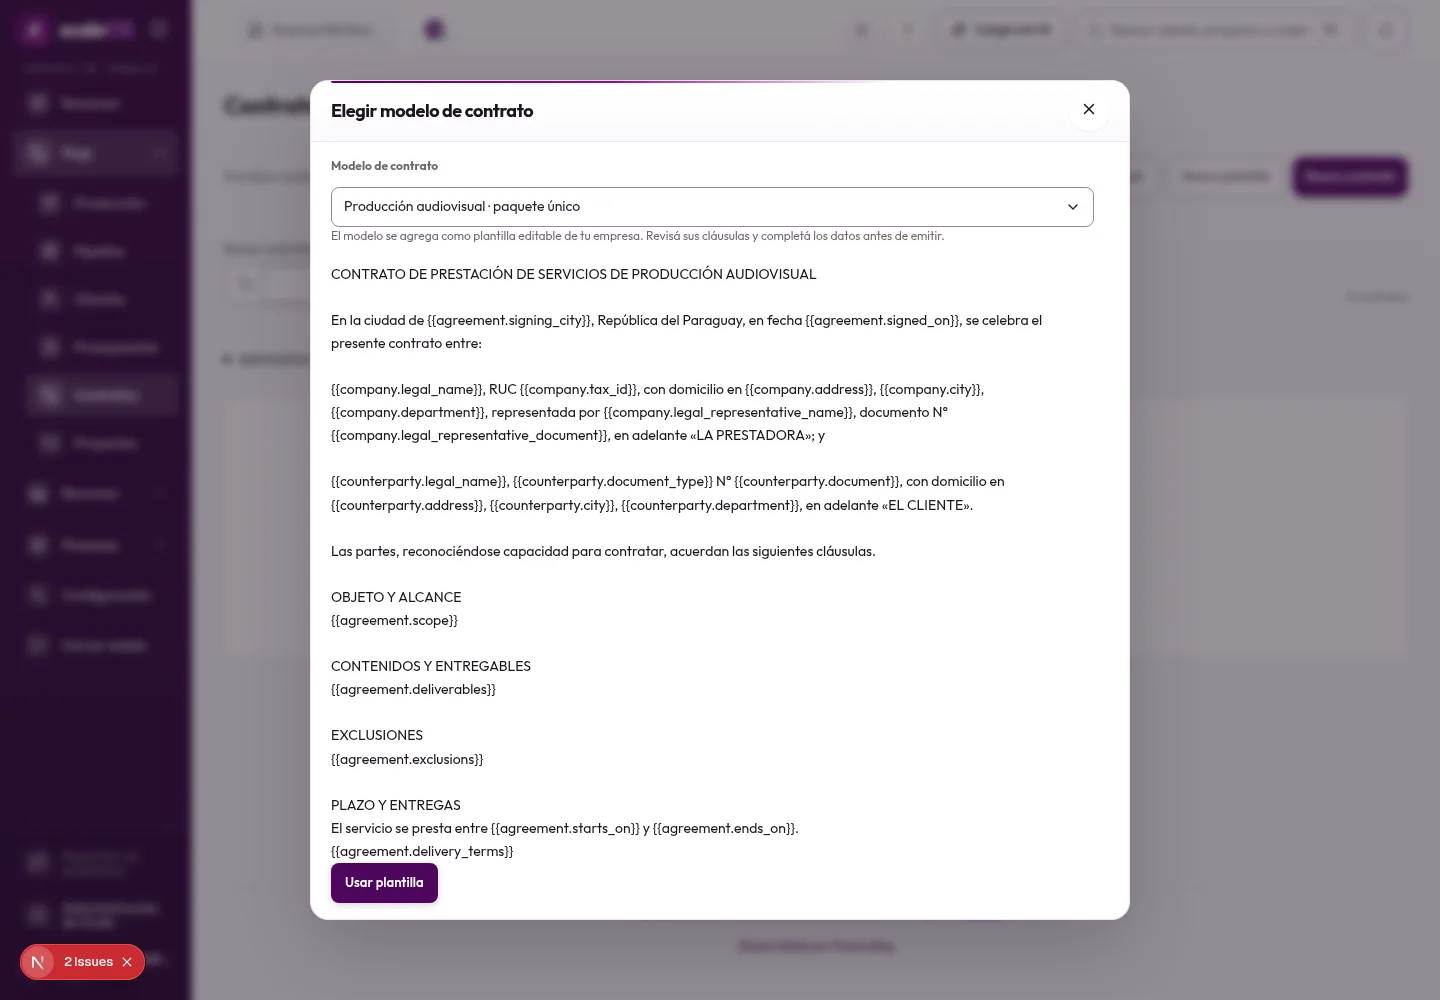
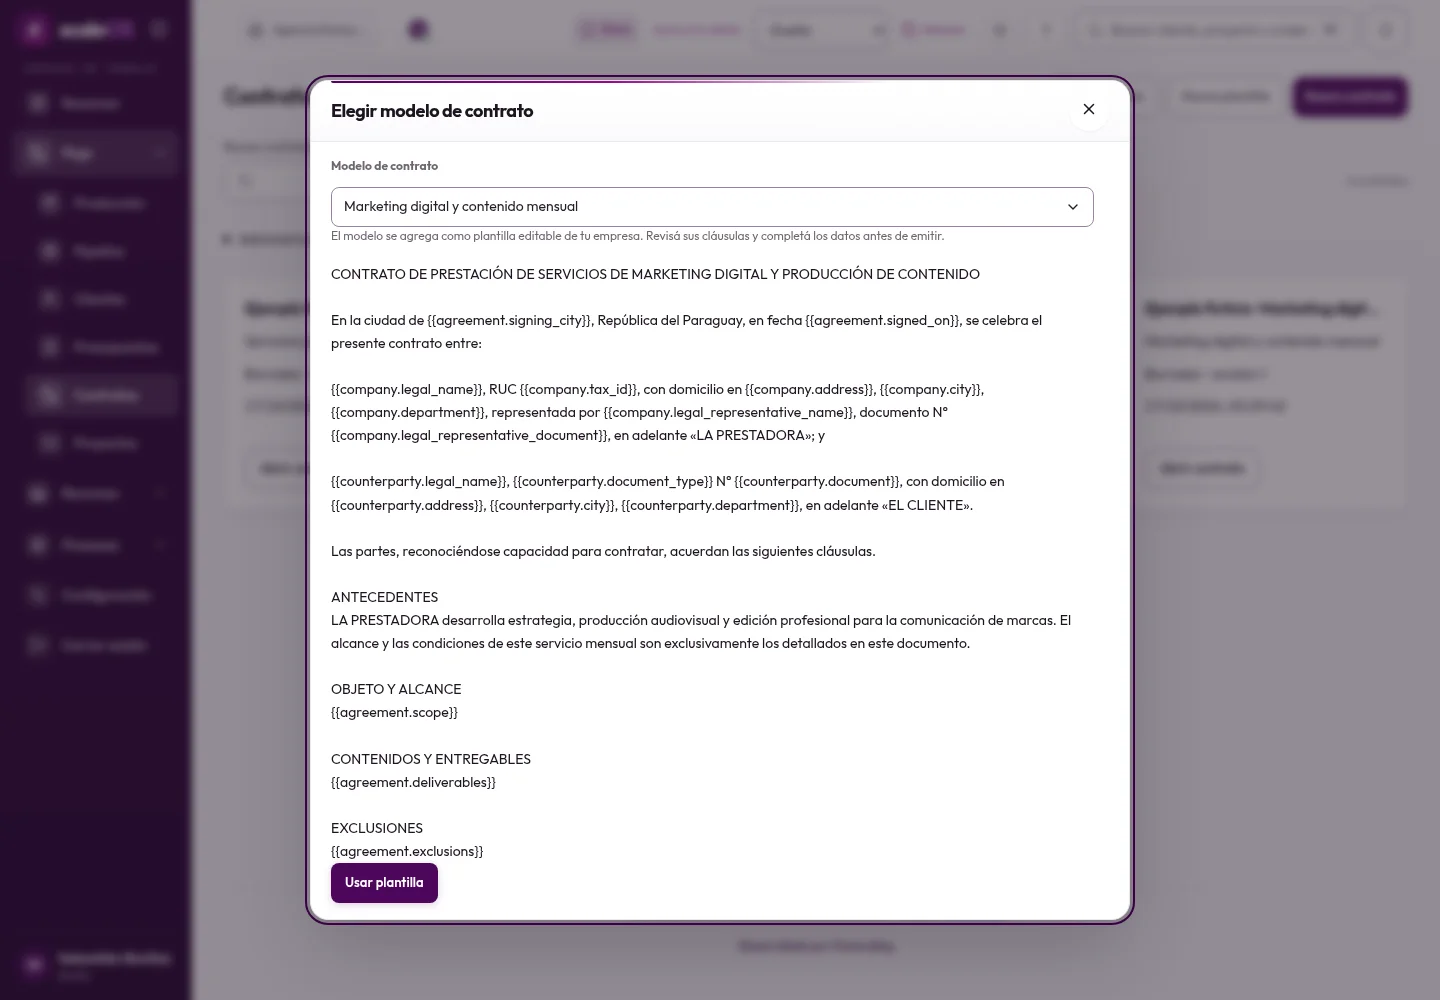
docs: capture real demo contract models without development tools (Refs #236)

diff --git a/public/scale-os.html b/public/scale-os.html
@@ -384,7 +384,7 @@ footer a:hover{color:var(--accent)}
    <figure class="shot"><picture><source type="image/webp" srcset="/landing/vender-960.webp"><img src="/landing/vender.jpg" alt="Pipeline y clientes de Scale OS: oportunidades, fichas y presupuestos" loading="lazy" decoding="async" width="1440" height="900"></picture><figcaption><strong>Vender</strong> · pipeline, clientes y propuestas</figcaption></figure>
    <figure class="shot"><picture><source type="image/webp" srcset="/landing/producir-960.webp"><img src="/landing/producir.jpg" alt="Producción de Scale OS: tablero por etapas con responsables y entregas" loading="lazy" decoding="async" width="1440" height="900"></picture><figcaption><strong>Producir</strong> · producción, proyectos y equipos</figcaption></figure>
    <figure class="shot"><picture><source type="image/webp" srcset="/landing/cobrar-960.webp"><img src="/landing/cobrar.jpg" alt="Finanzas de Scale OS: cuentas, facturas y cobros por moneda" loading="lazy" decoding="async" width="1440" height="900"></picture><figcaption><strong>Cobrar</strong> · finanzas, cobros e informes</figcaption></figure>
-   <figure class="shot"><img src="/landing/contratos-demo.webp" alt="Selector real de modelos de contrato con vista previa del texto" loading="lazy" decoding="async" width="1440" height="900"><figcaption><strong>Acordar</strong> · modelos de contrato, con datos de demostración</figcaption></figure>
+   <figure class="shot"><img src="/landing/contratos-demo.webp" alt="Selector real de modelos de contrato con vista previa del texto" loading="lazy" decoding="async" width="1440" height="1000"><figcaption><strong>Acordar</strong> · modelos de contrato, con datos de demostración</figcaption></figure>
    <figure class="shot"><img src="/landing/balance-demo.webp" alt="Balance mensual real de Scale OS con caja, gastos y cierre por moneda" loading="lazy" decoding="async" width="1440" height="1457"><figcaption><strong>Decidir</strong> · Balance y caja, con datos de demostración</figcaption></figure>
   </div>
  </div>

diff --git a/docs/qa/landing-assets-236.md b/docs/qa/landing-assets-236.md
@@ -1,0 +1,11 @@
+# Capturas de la landing — #236
+
+Las imágenes muestran interfaces reales. No se generaron pantallas ni datos de clientes reales.
+
+- `public/landing/producir-960.webp`: captura de producción ya publicada en la landing, reutilizada también en el hero.
+- `public/landing/contratos-demo.webp`: captura nueva del selector de modelos en la demo anónima local de QA, tomada el 17 de octubre de 2026 a 1440 × 1000. Servidor QA `127.0.0.1:3007`, API local 4107, fuente `89df4755`. Se abrió un contexto de navegador independiente, se inició una demo sintética y se consultó la vista previa del modelo. No se creó una plantilla ni se emitió un contrato.
+- `public/landing/balance-demo.webp`: captura real del Balance con datos sintéticos de la campaña QA #221, original `/tmp/scale-qa221/pagos-balance-1440.png` (1440 × 1457). El pie de la imagen conserva la versión que estaba bajo prueba cuando se capturó.
+
+Para la nueva captura de contratos se ocultó exclusivamente el portal de herramientas de desarrollo de Next (`nextjs-portal`) en el contexto de captura. La imagen no fue retocada. Se codificó a WebP, calidad 85, conservando sus dimensiones y contenido. La adaptación de Origin para iniciar la demo se limitó al POST de fixture contra localhost, siguiendo el harness de QA; no hubo navegación ni cambios en producción. Los destinos externos se bloquearon.
+
+Original nuevo: `/tmp/scale-access236/contracts-capture-final.png`. Script local de la sesión: `/tmp/capture-contract236-demo.mjs`. Los pies públicos de las dos capturas nuevas identifican los datos de demostración.
